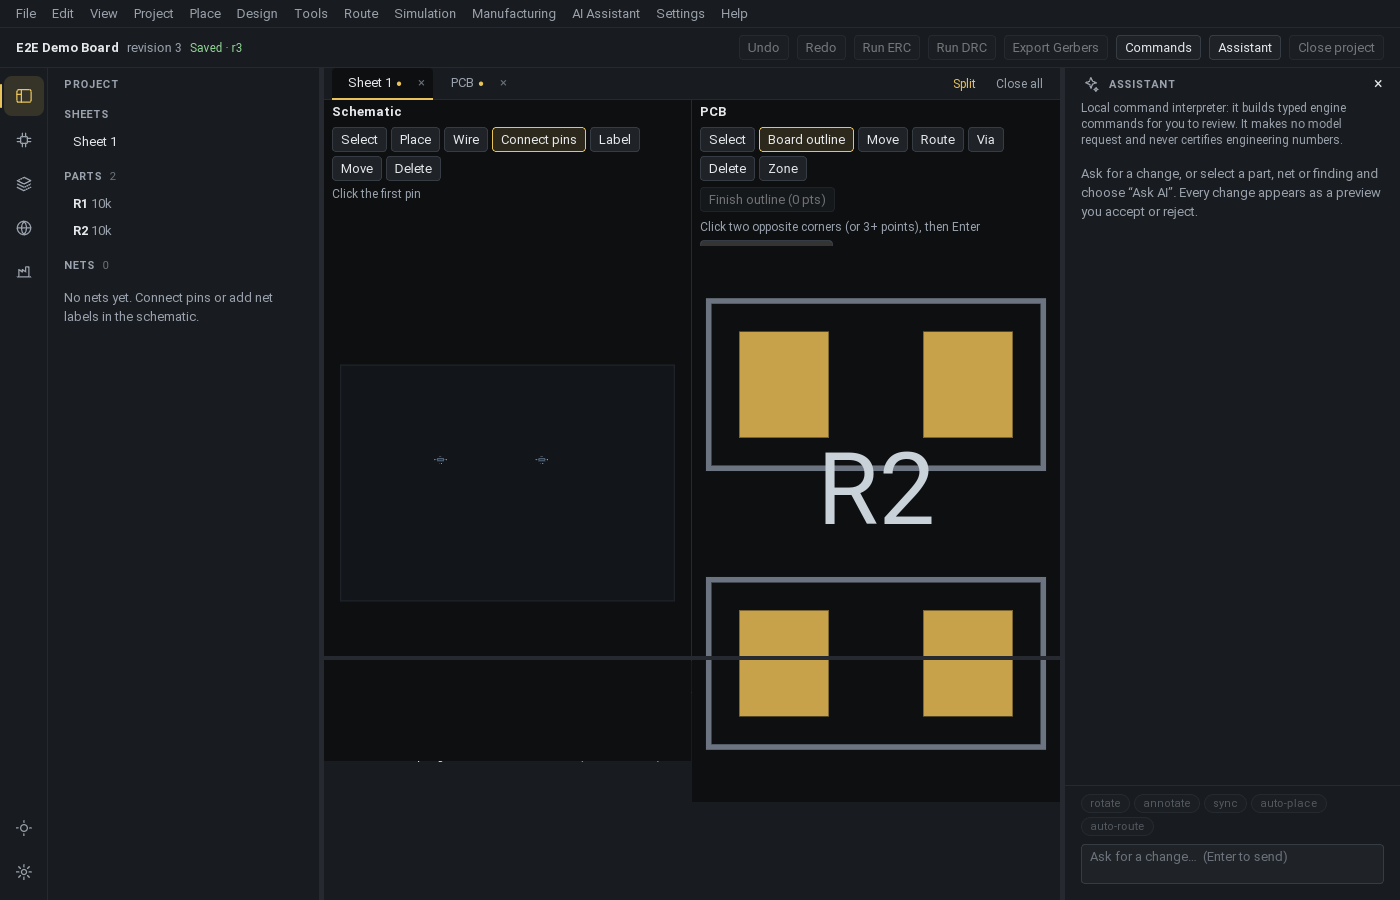
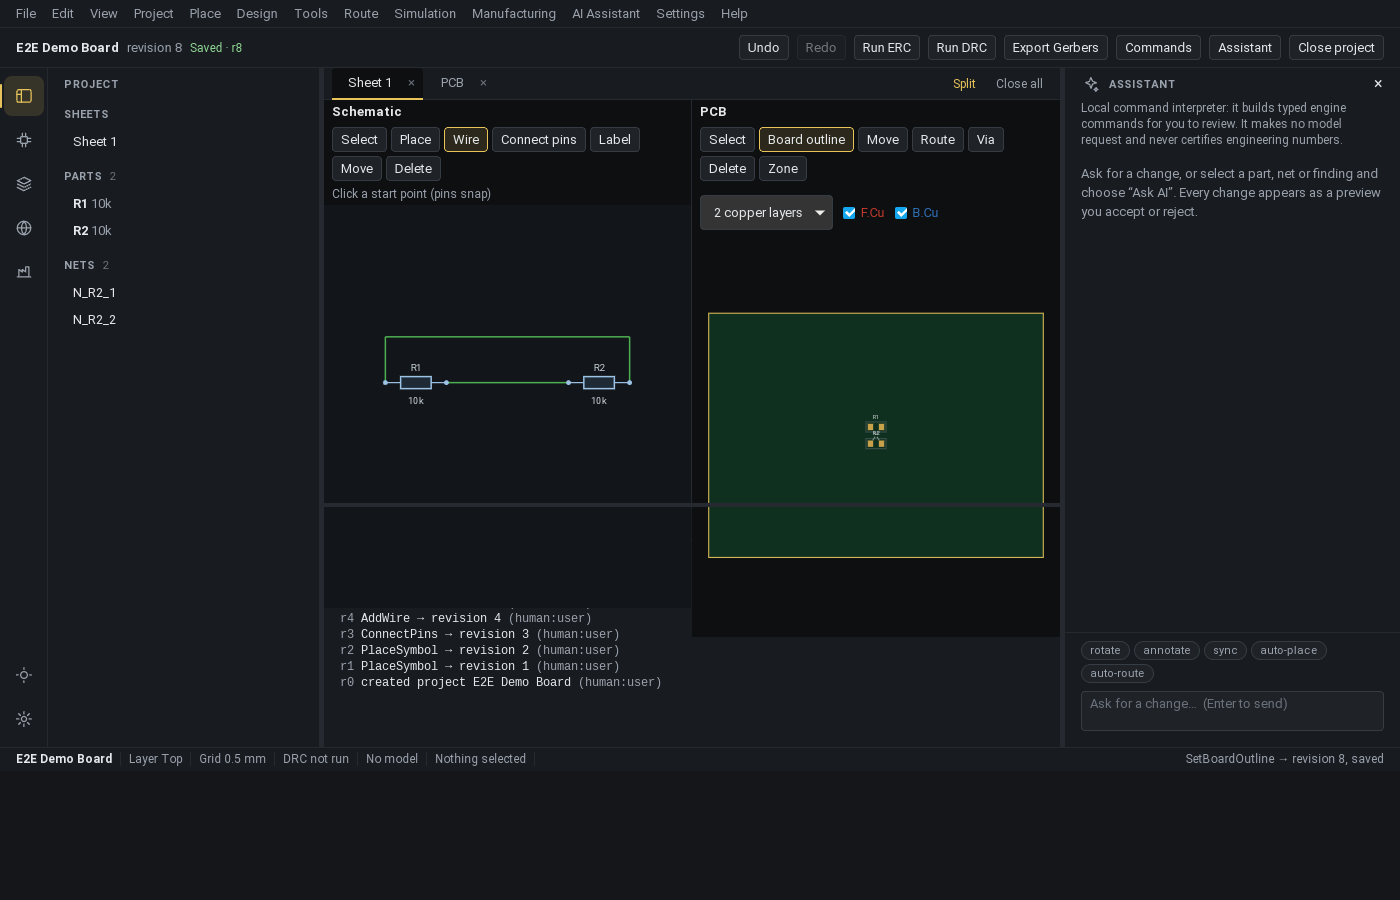
test(desktop): E2E harness geometry fixes (wheel zoom, board-mm outline/zone, wire tool); 18/18 on fb55118

diff --git a/docs/qa/E2E_RESULTS.md b/docs/qa/E2E_RESULTS.md
@@ -1,13 +1,15 @@
 # Desktop E2E results
 
-Real-window run of `apps/desktop/e2e/run.mjs` (tauri-driver 2 + WebKitWebDriver 2.52 +
-WebdriverIO 9) against a **debug build** of `apps/desktop` under Xvfb (1600×1000), Linux.
-Every step drives the actual window; pass/fail is read back from the engine snapshot and the files
-on disk. Screenshots: [`e2e-screenshots/`](e2e-screenshots/) (one per step).
+Real-window runs of [`apps/desktop/e2e/run.mjs`](../../apps/desktop/e2e/README.md)
+(tauri-driver 2.0 + WebKitWebDriver 2.52 + WebdriverIO 9) against a **debug build** of
+`apps/desktop` under Xvfb (1600×1000), Linux x86-64. Every step drives the actual window with
+real pointer, wheel and keyboard input; pass/fail is read back from the engine snapshot, the
+app's status bar and the files on disk. Screenshots: [`e2e-screenshots/`](e2e-screenshots/).
 
-## Run 1: 2026-11-14 18:03 IST, `main` at `fb55118` (pre-freeze)
+## Latest run: 2026-11-14 18:21 IST, app built from `main` at `fb55118`
 
-**12 / 18 steps passed.** Raw table as produced by the harness:
+**18 / 18 steps passed** (17 through the UI; S07 reads connectivity numbers over IPC because
+the UI has no connectivity/netlist view; its airwires are checked in the UI).
 
 | Step | Workflow step | Driven via | Result | Evidence | Screenshot |
 |---|---|---|---|---|---|
@@ -15,36 +17,41 @@ on disk. Screenshots: [`e2e-screenshots/`](e2e-screenshots/) (one per step).
 | S02 | Create project (New project form) | UI | **PASS** | project "E2E Demo Board" at r0; folder has .lock, project.eak.json | [02-S02.png](e2e-screenshots/02-S02.png) |
 | S03 | Open schematic editor | UI | **PASS** | schematic view shown; 1 sheet(s) | [03-S03.png](e2e-screenshots/03-S03.png) |
 | S04 | Place two components (Place tool + canvas clicks) | UI | **PASS** | placed R2=R_0603, R1=R_0603 → r2; canvas draws 2 | [04-S04.png](e2e-screenshots/04-S04.png) |
-| S05 | Connect pins (Connect pins tool, two pin pairs) | UI | **FAIL** | ConnectPins was not accepted | [05-S05.png](e2e-screenshots/05-S05.png) |
-| S06 | Connectivity / netlist | IPC (no UI) | **FAIL** | expected ≥2 nets, got 0 | [06-S06.png](e2e-screenshots/06-S06.png) |
-| S07 | Sync schematic to PCB (Project menu) | UI | **PASS** | 2 footprints on PCB → r3 | [07-S07.png](e2e-screenshots/07-S07.png) |
-| S08 | Board outline (Board outline tool, 2 corners, Finish) | UI | **PASS** | outline with 4 points → r4 | [08-S08.png](e2e-screenshots/08-S08.png) |
-| S09 | Footprint placement (Design → Auto-place footprints) | UI | **FAIL** | AutoPlace not accepted | [09-S09.png](e2e-screenshots/09-S09.png) |
-| S10 | Layers: set 4 copper layers (PCB Copper layers select) | UI | **FAIL** | WebDriverError: element click intercepted when running "element/node-26F887C1-DF43-416A-92F3-F00B7E0EC6F8/click" with method "POST" | [10-S10.png](e2e-screenshots/10-S10.png) |
-| S11 | Route (Route → Auto-route all nets) | UI | **FAIL** | AutoRoute not accepted | [11-S11.png](e2e-screenshots/11-S11.png) |
-| S12 | Copper zone (Zone tool, layer + net, 2 corners, Finish) | UI | **FAIL** | no nets offered for the zone | [12-S12.png](e2e-screenshots/12-S12.png) |
-| S13 | ERC (toolbar Run ERC) | UI | **PASS** | outcome ERRORS, 4 error(s), 0 warning(s); lists 4 not_implemented and 2 limitation(s) | [13-S13.png](e2e-screenshots/13-S13.png) |
-| S14 | DRC (toolbar Run DRC) | UI | **PASS** | outcome ERRORS, 4 error(s), 0 warning(s); lists 7 not_implemented and 4 limitation(s) | [14-S14.png](e2e-screenshots/14-S14.png) |
-| S15 | Generate outputs + manufacturing checks (toolbar Export Gerbers) | UI | **PASS** | 14 files on disk, status DRAFT: E2E_Demo_Board-BOM.csv, E2E_Demo_Board-B_Cu.gbl, E2E_Demo_Board-B_Mask.gbs, E2E_Demo_Board-B_Paste.gbp, E2E_Demo_Board-B_Silkscreen.gbo, E2E_Demo_Board-CPL.csv, E2E_Demo_Board-Edge_Cuts.gm1, E2E_Demo_Board-F_Cu.gtl, …; ERC+DRC+mech reports run inside export (no separate manufacturing-check control) | [15-S15.png](e2e-screenshots/15-S15.png) |
-| S16 | Save (Ctrl+S); engine persists every command | UI | **PASS** | status: "Saved: every accepted command is already on disk (revision 4)."; project folder: .lock, evidence, journal.jsonl, output, project.eak.json | [16-S16.png](e2e-screenshots/16-S16.png) |
+| S05 | Connect parts (Connect pins tool + Wire tool) | UI | **PASS** | Connect pins R1.2–R2.1 + 3-segment Wire R1.1–R2.2 → r6; 4 wire(s) in IR | [05-S05.png](e2e-screenshots/05-S05.png) |
+| S06 | Sync schematic to PCB (Project menu) | UI | **PASS** | 2 footprints on PCB → r7 | [06-S06.png](e2e-screenshots/06-S06.png) |
+| S07 | Connectivity: nets + airwires after sync | IPC (no UI) + UI airwires | **PASS** | 2 nets (N_R2_1, N_R2_2), 2 unrouted, 0 shorts; PCB draws 2 airwires. No netlist/connectivity view in the UI | [07-S07.png](e2e-screenshots/07-S07.png) |
+| S08 | Board outline (Board outline tool, 2 corners, Finish) | UI | **PASS** | outline 4 points, 50.0 × 36.5 mm → r8 | [08-S08.png](e2e-screenshots/08-S08.png) |
+| S09 | Footprint placement (Design → Auto-place footprints) | UI | **PASS** | footprints at 0.0,1.0 / 0.0,-1.0 mm → r9 | [09-S09.png](e2e-screenshots/09-S09.png) |
+| S10 | Layers: set 4 copper layers (PCB Copper layers select) | UI | **PASS** | PCB layer panel shows 4 copper layers → r10 | [10-S10.png](e2e-screenshots/10-S10.png) |
+| S11 | Route (Route → Auto-route all nets) | UI | **PASS** | 10 track segment(s), 2 via(s), 0 unrouted connection(s) → r11 | [11-S11.png](e2e-screenshots/11-S11.png) |
+| S12 | Copper zone (Zone tool, layer + net, 2 corners, Finish) | UI | **PASS** | zone on layer bottom, net N_R2_1 → r12 | [12-S12.png](e2e-screenshots/12-S12.png) |
+| S13 | ERC (toolbar Run ERC) | UI | **PASS** | outcome NO_ERRORS_IN_IMPLEMENTED_CHECKS, 0 error(s), 0 warning(s); lists 4 not_implemented and 2 limitation(s) | [13-S13.png](e2e-screenshots/13-S13.png) |
+| S14 | DRC (toolbar Run DRC) | UI | **PASS** | outcome NO_ERRORS_IN_IMPLEMENTED_CHECKS, 0 error(s), 3 warning(s); lists 7 not_implemented and 4 limitation(s) | [14-S14.png](e2e-screenshots/14-S14.png) |
+| S15 | Generate outputs + manufacturing checks (toolbar Export Gerbers) | UI | **PASS** | 16 files on disk, status INTERNALLY_VERIFIED_RELEASE_CANDIDATE: E2E_Demo_Board-BOM.csv, E2E_Demo_Board-B_Cu.gbl, E2E_Demo_Board-B_Mask.gbs, E2E_Demo_Board-B_Paste.gbp, E2E_Demo_Board-B_Silkscreen.gbo, E2E_Demo_Board-CPL.csv, E2E_Demo_Board-Edge_Cuts.gm1, E2E_Demo_Board-F_Cu.gtl, …; ERC+DRC+mech reports run inside export (no separate manufacturing-check control) | [15-S15.png](e2e-screenshots/15-S15.png) |
+| S16 | Save (Ctrl+S); engine persists every command | UI | **PASS** | status: "Saved: every accepted command is already on disk (revision 12)."; project folder: .lock, evidence, journal.jsonl, output, project.eak.json | [16-S16.png](e2e-screenshots/16-S16.png) |
 | S17 | Close project (toolbar Close project) | UI | **PASS** | back on Project Home; current_project now errors (engine closed) | [17-S17.png](e2e-screenshots/17-S17.png) |
-| S18 | Reopen from Recent projects and compare | UI | **PASS** | reopened at r4; symbols/footprints/tracks/zones = 2/2/0/0 (identical to before close) | [18-S18.png](e2e-screenshots/18-S18.png) |
+| S18 | Reopen from Recent projects and compare | UI | **PASS** | reopened at r12; symbols/footprints/tracks/zones = 2/2/10/1 (identical to before close) | [18-S18.png](e2e-screenshots/18-S18.png) |
 
-12/18 steps passed.
+18/18 steps passed.
 
-### Triage of the failures
+## Observations from the real window (for routing)
 
-| Step | Cause | Verdict |
-|---|---|---|
-| S05 Connect pins | The schematic canvas fits the whole A4 sheet into ~330 px, so a 0603 resistor's two pins are ~2 px apart and the pin-snap radius is ~1.5 px. The harness clicked pin centres at that scale and the clicks missed the pins (no `ConnectPins` sent). | **Harness** (needs to zoom in before clicking pins). The UI itself makes tiny parts hard to hit at fit-to-sheet zoom. |
-| S06 Connectivity | Consequence of S05 (no connections → 0 nets). Connectivity IPC answered correctly. | Cascade |
-| S08 → S09 Auto-place | S08 passed, but the outline corners were taken as fractions of a PCB canvas zoomed onto one footprint, giving a board a few mm wide; `AutoPlace` was then rejected (footprints do not fit). | **Harness** (outline must be drawn in board mm) |
-| S10 Layer count | `element click intercepted`: with the Board outline tool still active, the PCB tool-options row wraps and the `Copper layers` select is overlapped by the canvas at a 1400×900 window in split view (see `09-S09.png`). | **Harness ordering + possible UI layout bug** (to confirm) |
-| S11 Auto-route, S12 Zone | Consequence of S05/S09 (no nets, no placement). | Cascade |
+| # | Observation | Evidence | Owner area |
+|---|---|---|---|
+| O1 | The export at S15 was promoted to `INTERNALLY_VERIFIED_RELEASE_CANDIDATE` with DRC at 3 warnings. No net in this design has a declared current, so DRC-008 checked nothing (see [EVALUATION.md](EVALUATION.md) C1/C2). The run confirms the gate behaviour; it does not claim the board is wrong. | `output/rev-12/manifest.json` gates: ERC 0/0, DRC 0 err / 3 warn, MECH 0/0, `blocking_reasons: []` | `eak-validation`, `eak-manufacturing` |
+| O2 | In split view the PCB view is drawn over the bottom panel: the activity log is visible only under the schematic half. | `e2e-screenshots/12-S12.png` | desktop layout |
+| O3 | At fit-to-sheet zoom the schematic canvas is ~330 px wide for an A4 sheet; a 0603 resistor's pins are ~2 px apart and the pin-snap radius is ~1.5 px, so pins cannot practically be hit without zooming first. | run 2, S05 | desktop schematic UX |
+| O4 | With the Board outline tool active, the PCB tool-options row wraps and the `Copper layers` select was overlapped by the canvas (`element click intercepted`) at a 1400×900 window. Not seen once the Select tool is active. | run 2, S10 | desktop layout |
+| O5 | `ConnectPins` correctly refuses a connection whose every L-shaped route crosses another pin and says so in the status bar; the harness draws that connection with the Wire tool instead. | run 3 status bar text | (works as designed) |
 
-What this run does establish on real UI: project create, schematic open, part placement by canvas
-click, schematic→PCB sync, board-outline tool, ERC and DRC from the toolbar (both report
-`not_implemented` and `limitations`), export of 14 manufacturing files to disk marked `DRAFT`,
-save confirmation, close, and reopen from Recent with identical revision and object counts.
+## Run history (honest record)
 
-Run 2 (post-freeze, latest `main`, harness geometry fixed) is recorded below when complete.
+| Run | Time (IST) | App build | Result | Notes |
+|---|---|---|---|---|
+| 1 | 18:01 | `fb55118` | 0/1 | `browserName: "wry"` capability rejected by WebKitWebDriver (harness) |
+| 2 | 18:03 | `fb55118` | 12/18 | Harness: point fields read as arrays (NaN), outline drawn in canvas fractions; O3, O4 seen |
+| 3 | 18:13 | `fb55118` | 14/18 | Pins hit after wheel zoom; `ConnectPins` refused the outer pins (O5); cascade to route/zone |
+| 4 | 18:17 | `fb55118` | 17/18 | Connectivity checked before PCB sync (engine connectivity is PCB copper) |
+| 5 | 18:21 | `fb55118` | **18/18** | Table above |
+
+A post-freeze run on the latest `main` is appended below when its build completes.
